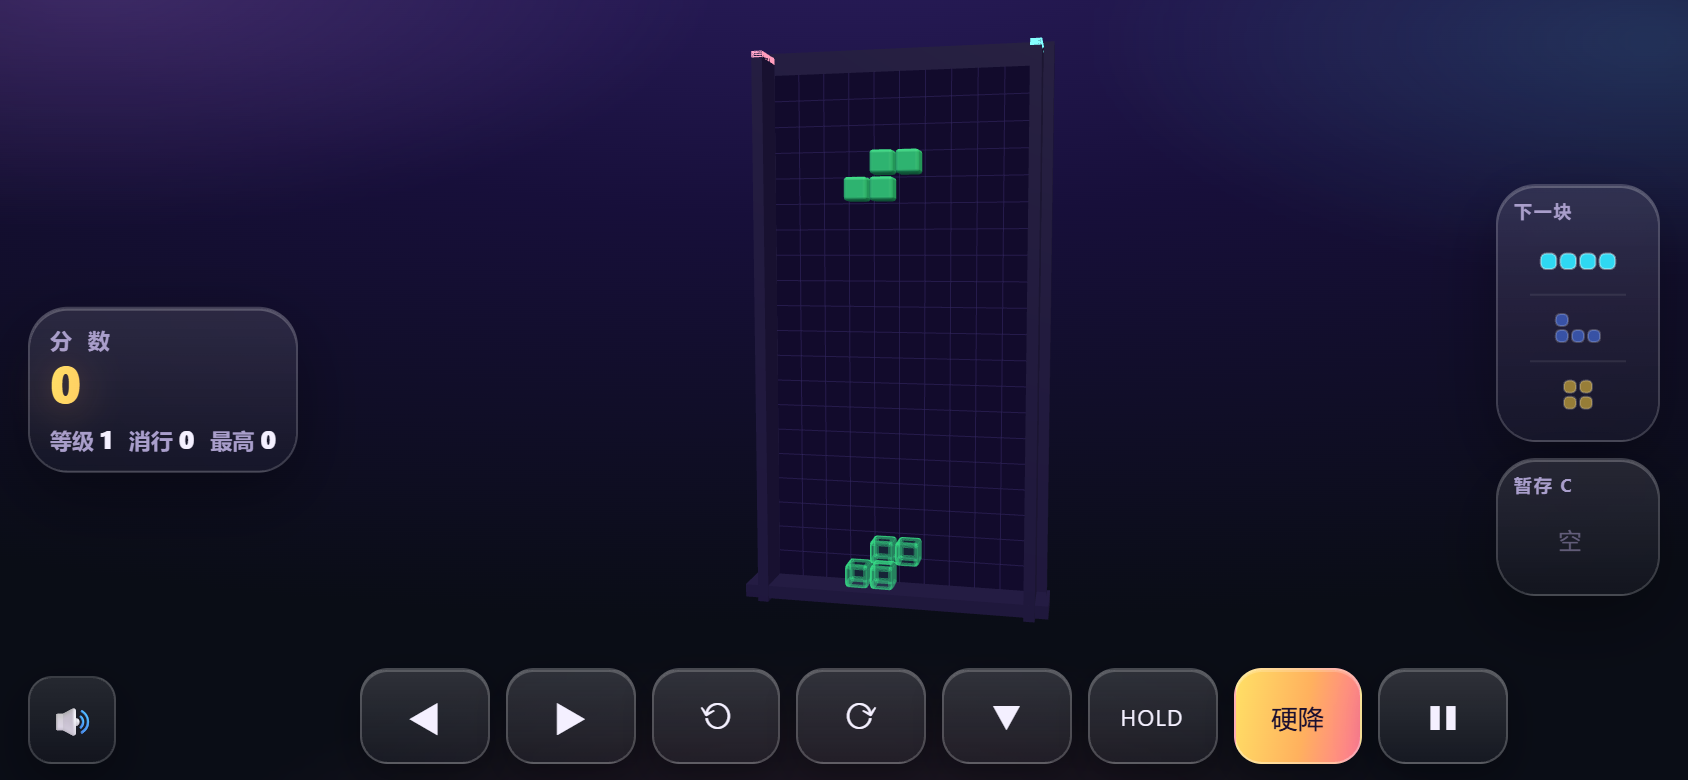
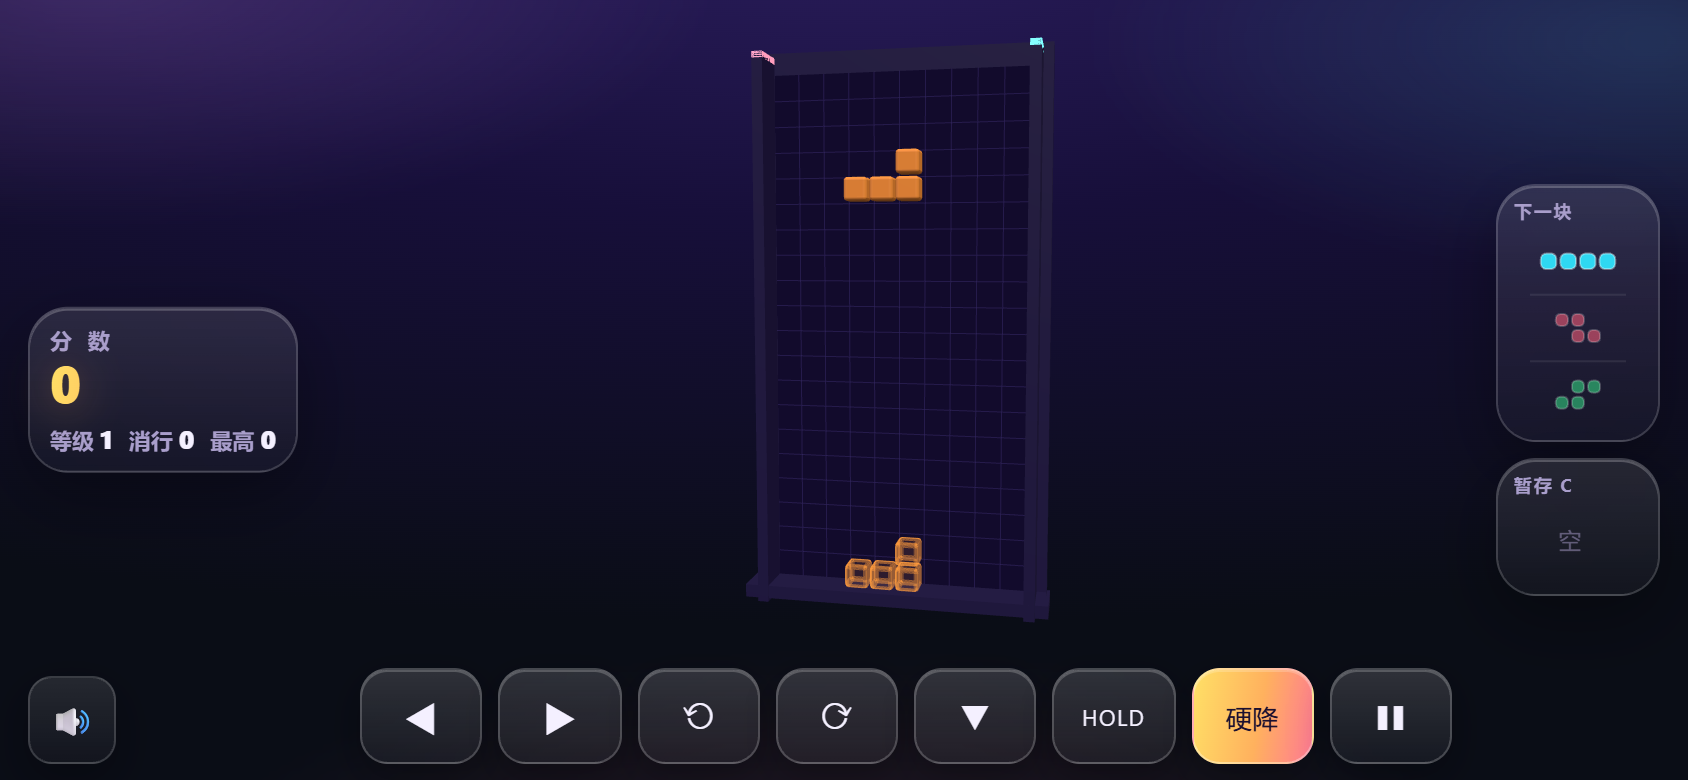
📱 避让平台返回按钮：触控区右让 64 → 118px
为什么改：平台注入的「← 返回平台」按钮触屏下实测 97×44px，
锚点 right/bottom 各 12px，375×812 下占 x=266..363 / y=756..800。
原来只让 64px，底部第二行最后一个暂停键（x=230..293）被压住 27×44px，
手机上按暂停很可能误点到「返回平台」直接退出对局。

- 算式：97（按钮宽）+ 12（right 锚点）+ 9（安全余量）= 118px。
  竖屏 375-118=257，按钮左边 266 → 余 9px；横屏 844-118=726，按钮左边 735 → 余 9px。
- 选「横向收窄」而不是「整体上移」：取景带高度不变（竖屏 530px），
  不牺牲井道可玩面积。
- 桌面 #soundBtn 从右下移到左下，同样避开该按钮。
- core.js / framing.js 未改，30 条单测全绿。

验证：npm run check 30/30；python build.py 696929 bytes；
backbtn-overlap 工具 7/7 游戏 OK（tetris 一行 OK）；mobile-check 三视口 PASS、minTap=44px。

diff --git a/index.html b/index.html
@@ -86,8 +86,10 @@
      而且滑动距离到格数没有一一对应关系，容易一格变三格。 */
   #controls{
     pointer-events:auto;display:grid;grid-template-columns:repeat(4,1fr);gap:8px;
-    /* 右下角让给平台注入的「返回平台」按钮 */
-    margin-right:64px;
+    /* 右下角让给平台注入的「返回平台」按钮：
+       实测按钮 97px 宽 + 平台 right:12px = 占右侧 109px，再留 9px 余量 = 118px。
+       64px 的旧预留不够，暂停键被压掉近一半（27×44 相交）。 */
+    margin-right:118px;
   }
   .tbtn{
     pointer-events:auto;touch-action:none;cursor:pointer;
@@ -184,7 +186,7 @@
     #holdCv{width:52px;height:38px;}
     .lbl{font-size:10px;letter-spacing:.12em;}
     .hint{display:none;}
-    #controls{position:fixed;left:18px;right:82px;bottom:calc(10px + env(safe-area-inset-bottom));margin-right:0;}
+    #controls{position:fixed;left:18px;right:118px;bottom:calc(10px + env(safe-area-inset-bottom));margin-right:0;}
     .tbtn{height:54px;font-size:19px;}
     .tbtn.wide-label{font-size:11px;}
     .tbtn.primary{font-size:13px;}
@@ -207,7 +209,7 @@
     #nextCv{width:64px;height:100px;}
     #holdCv{width:56px;height:40px;}
     #soundBtn{position:fixed;left:14px;bottom:calc(8px + env(safe-area-inset-bottom));}
-    #controls{position:fixed;left:180px;right:90px;bottom:calc(8px + env(safe-area-inset-bottom));
+    #controls{position:fixed;left:180px;right:118px;bottom:calc(8px + env(safe-area-inset-bottom));
       margin-right:0;grid-template-columns:repeat(8,1fr);}
     .tbtn{height:48px;font-size:17px;}
     .tbtn.wide-label{font-size:11px;}
@@ -218,7 +220,8 @@
 
   /* 桌面：恢复原来的固定音效按钮位置，键盘提示照旧 */
   @media (min-width:641px) and (min-height:561px){
-    #soundBtn{position:fixed;right:16px;bottom:calc(14px + env(safe-area-inset-bottom));}
+    /* 平台返回按钮锚在右下（right:12, 97×44），音效开关移到左下避免相交 */
+    #soundBtn{position:fixed;left:16px;bottom:calc(14px + env(safe-area-inset-bottom));}
     #controls{display:none;}
   }
 </style>

diff --git a/src/shell.html b/src/shell.html
@@ -86,8 +86,10 @@
      而且滑动距离到格数没有一一对应关系，容易一格变三格。 */
   #controls{
     pointer-events:auto;display:grid;grid-template-columns:repeat(4,1fr);gap:8px;
-    /* 右下角让给平台注入的「返回平台」按钮 */
-    margin-right:64px;
+    /* 右下角让给平台注入的「返回平台」按钮：
+       实测按钮 97px 宽 + 平台 right:12px = 占右侧 109px，再留 9px 余量 = 118px。
+       64px 的旧预留不够，暂停键被压掉近一半（27×44 相交）。 */
+    margin-right:118px;
   }
   .tbtn{
     pointer-events:auto;touch-action:none;cursor:pointer;
@@ -184,7 +186,7 @@
     #holdCv{width:52px;height:38px;}
     .lbl{font-size:10px;letter-spacing:.12em;}
     .hint{display:none;}
-    #controls{position:fixed;left:18px;right:82px;bottom:calc(10px + env(safe-area-inset-bottom));margin-right:0;}
+    #controls{position:fixed;left:18px;right:118px;bottom:calc(10px + env(safe-area-inset-bottom));margin-right:0;}
     .tbtn{height:54px;font-size:19px;}
     .tbtn.wide-label{font-size:11px;}
     .tbtn.primary{font-size:13px;}
@@ -207,7 +209,7 @@
     #nextCv{width:64px;height:100px;}
     #holdCv{width:56px;height:40px;}
     #soundBtn{position:fixed;left:14px;bottom:calc(8px + env(safe-area-inset-bottom));}
-    #controls{position:fixed;left:180px;right:90px;bottom:calc(8px + env(safe-area-inset-bottom));
+    #controls{position:fixed;left:180px;right:118px;bottom:calc(8px + env(safe-area-inset-bottom));
       margin-right:0;grid-template-columns:repeat(8,1fr);}
     .tbtn{height:48px;font-size:17px;}
     .tbtn.wide-label{font-size:11px;}
@@ -218,7 +220,8 @@
 
   /* 桌面：恢复原来的固定音效按钮位置，键盘提示照旧 */
   @media (min-width:641px) and (min-height:561px){
-    #soundBtn{position:fixed;right:16px;bottom:calc(14px + env(safe-area-inset-bottom));}
+    /* 平台返回按钮锚在右下（right:12, 97×44），音效开关移到左下避免相交 */
+    #soundBtn{position:fixed;left:16px;bottom:calc(14px + env(safe-area-inset-bottom));}
     #controls{display:none;}
   }
 </style>

diff --git a/.agents/context/current-state.md b/.agents/context/current-state.md
@@ -140,3 +140,47 @@
 - 横屏井道偏窄（约 147px 宽）——2:1 井道在 390px 高视口内的几何必然，面板已收到两侧。
 - 双指缩放/手势旋转未做（规范要求的是按钮入口，已满足）。
 - 未做触屏长按连发速度调节（当前复用键盘 DAS 150ms + 45ms）。
+
+## 2026-11-18 23:40 — 避让平台返回按钮（修复遮挡）
+
+### 缺陷（lead 线上集成验收发现）
+
+- 平台在右下角注入固定「← 返回平台」按钮，触屏下 `min-height:44px`、宽约 97px，
+  锚点 `right:12px` + `bottom:12px` + safe-area。375×812 实测占用 **x=266～363、y=756～800**。
+- 上一版 `#controls` 右侧只留 82/90px（基础 `margin-right:64px`），
+  第二行最后一个暂停键 rect **x=230～293、y=748～802**，与返回按钮相交 **27×44 px**
+  ——手机上按暂停极易点到「返回平台」直接退出。
+- `mobile-check.mjs` 看不到这类遮挡（canvas 仍 100% 覆盖、无横向滚动 → 全绿），
+  必须靠 rect 求交才能发现（容器层另有 `backbtn-overlap.mjs`）。
+
+### 预留尺寸怎么算出来的
+
+97（按钮实测宽）+ 12（平台 right 锚点）+ 9（安全余量）= **118px**。
+`right ≥118px` → 竖屏 controls 右边界 x=257（375−118），距返回按钮左边界 266 还有 9px；
+横屏 controls 右边界 x=726（844−118），距返回按钮左 735 还有 9px。
+选择「横向收窄」而不是「整体上移」：取景带高度不变（竖屏 530px），不牺牲井道可玩面积。
+
+### 改动
+
+- `src/shell.html`：
+  - `#controls` 基础 `margin-right:64px` → `118px`；
+  - 竖屏 media query `right:82px` → `right:118px`；
+  - 横屏 media query `right:90px` → `right:118px`；
+  - 桌面 `#soundBtn` 从右下 `right:16px` 改到左下 `left:16px`
+    ——同样避开平台右下返回按钮（不只在移动端发生）。
+- `index.html`：`python build.py` 重建，**696929 bytes**（未手改）。
+
+### 自证（实测 rect，修复后）
+
+- 竖屏 375×812：暂停键 `[203,748,54,54]` → 右边界 **257** < 返回按钮左 **272/266**，无相交；
+  controls `[18,686,239,116]`，右侧留 118px。
+- 横屏 844×390：暂停键 `[665,334,61,48]` → 右边界 **726** < 返回按钮左 **741/735**，无相交。
+- 音效按钮竖屏 `[144,10,44,44]`、横屏 `[14,338,44,44]`，均远离右下角。
+- 平台侧统一验收 `backbtn-overlap.mjs http://127.0.0.1:8099`：
+  **tetris 一行 `OK`，全量 7/7 个游戏无遮挡**（原始输出由 lead 统一执行并存档）。
+- `npm run check`：**30/30 全绿**；`mobile-check.mjs`：**3/3 PASS，minTap=44px**（修复后复跑）。
+
+### 资源纪律
+
+- 本轮 CDP 探针脚本用后即 kill Chrome 并删 `--user-data-dir`；最终 `Get-Process chrome` = 0，
+  无残留验收 node 进程。后续遮挡自证由 lead 统一跑，子代理不再各开浏览器。
